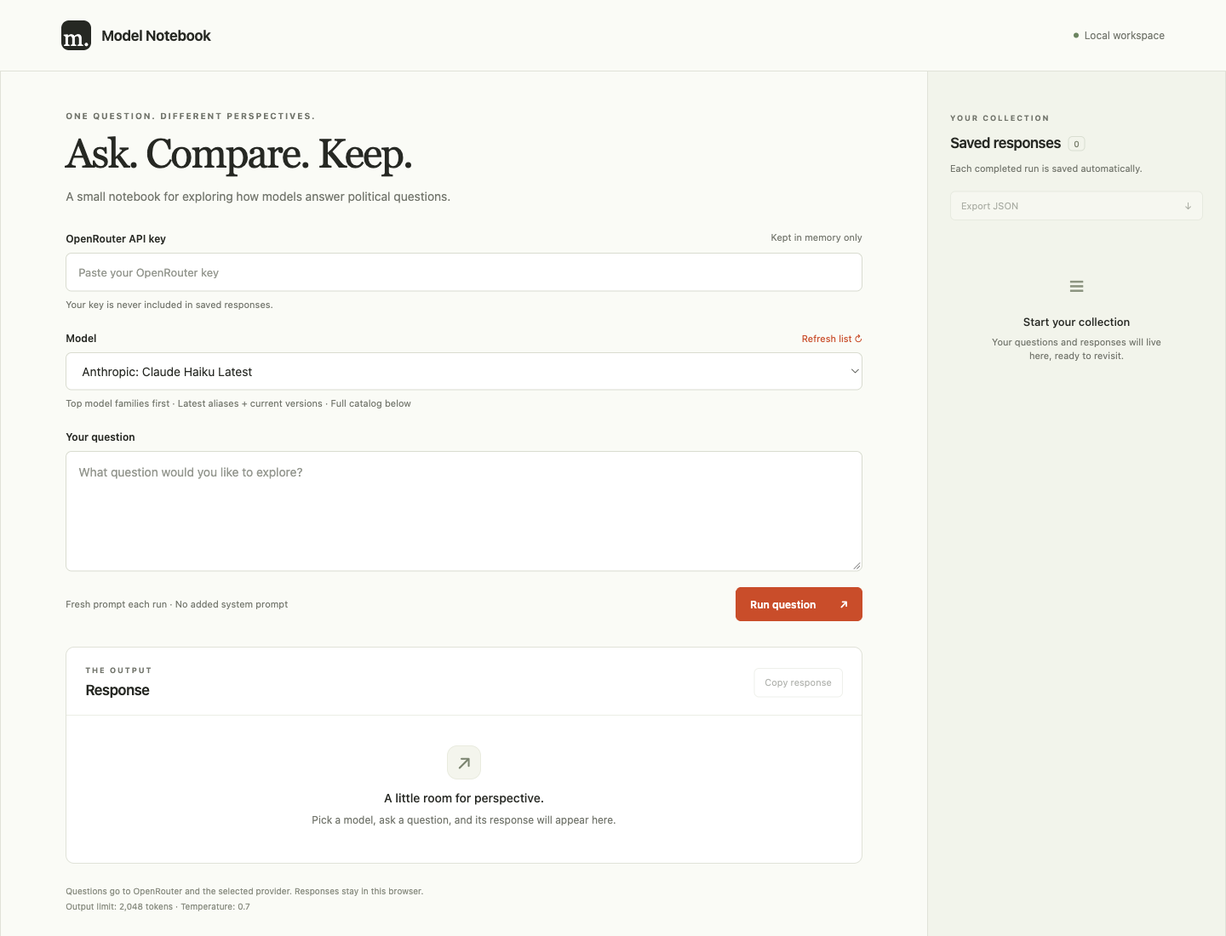
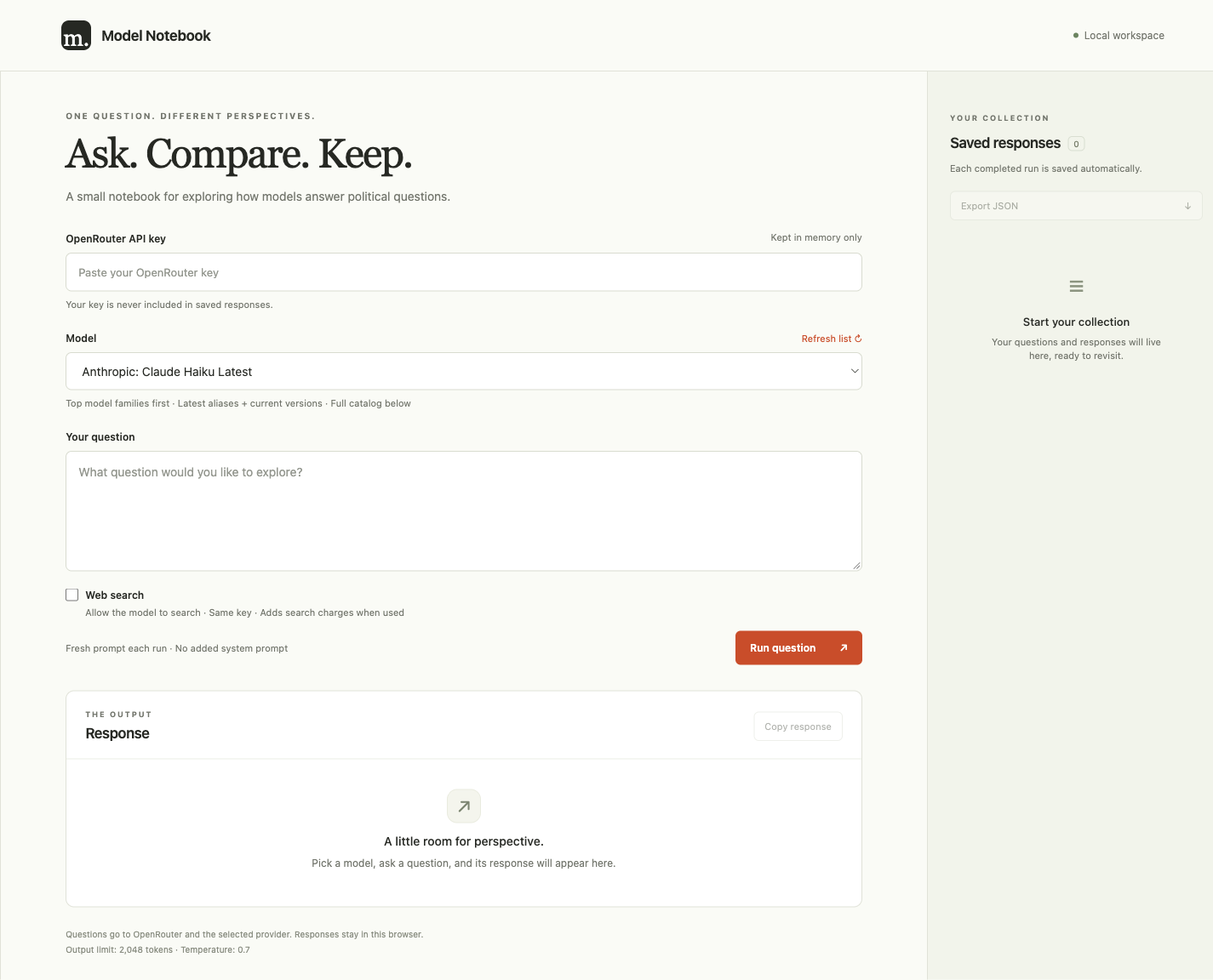
Add optional OpenRouter web search with saved source links

diff --git a/static/app.js b/static/app.js
@@ -45,6 +45,7 @@ function updateControls() {
   $("run").firstChild.textContent = busy ? "Running… " : "Run question ";
   $("question").disabled = busy;
   $("api-key").disabled = busy;
+  $("web-search").disabled = busy;
   $("model").disabled = busy || !$("model").value;
   $("refresh-models").disabled = busy;
 }
@@ -108,6 +109,25 @@ function persist() {
   }
 }
 
+function safeSources(sources) {
+  if (!Array.isArray(sources)) return [];
+  const seen = new Set();
+  return sources.slice(0, 100).flatMap((source) => {
+    if (!source || typeof source.url !== "string" || source.url.length > 4096 || /[\s\x00-\x1f\x7f]/.test(source.url)) return [];
+    try {
+      const url = new URL(source.url);
+      if (!["http:", "https:"].includes(url.protocol) || !url.hostname || url.username || url.password || seen.has(url.href)) return [];
+      seen.add(url.href);
+      return [{url: url.href, title: typeof source.title === "string" && source.title.trim() ? source.title.slice(0, 300) : url.hostname}];
+    } catch { return []; }
+  });
+}
+
+function searchInfo(value) {
+  return {enabled: value?.enabled === true, engine: value?.enabled === true ? "exa" : null,
+    requests: Number.isInteger(value?.requests) && value.requests >= 0 ? value.requests : null};
+}
+
 function restore() {
   try {
     const saved = JSON.parse(localStorage.getItem(storageKey) || "[]");
@@ -122,6 +142,7 @@ function restore() {
       provider: typeof item.provider === "string" ? item.provider : null,
       finish_reason: typeof item.finish_reason === "string" ? item.finish_reason : null,
       usage: item.usage && typeof item.usage === "object" ? item.usage : null,
+      web_search: searchInfo(item.web_search), sources: safeSources(item.sources),
       parameters: {temperature: 0.7, max_tokens: 2048},
     }));
   } catch {
@@ -142,6 +163,22 @@ function show(record) {
     $("result-meta").textContent = `${record.model_name} · ${dateLabel(record.created_at)} · Returned: ${record.model}${record.provider ? " · " + record.provider : ""}`;
     $("result-question").textContent = record.prompt;
     $("result-text").textContent = record.response;
+    const search = searchInfo(record.web_search);
+    $("result-search").textContent = !search.enabled ? "Web search off" : search.requests === 0 ? "Web search enabled · Model did not request a search" :
+      search.requests === null ? "Web search enabled · Search usage not reported" : `Web search used · ${search.requests} ${search.requests === 1 ? "search" : "searches"}`;
+    const sources = safeSources(record.sources);
+    $("sources").hidden = !search.enabled && !sources.length;
+    $("source-empty").hidden = sources.length > 0;
+    $("source-list").replaceChildren(...sources.map((source) => {
+      const item = document.createElement("li");
+      const link = document.createElement("a");
+      link.href = source.url;
+      link.textContent = source.title;
+      link.target = "_blank";
+      link.rel = "noopener noreferrer";
+      item.append(link);
+      return item;
+    }));
     $("result-warning").textContent = record.finish_reason === "length" ? "Output reached the 2,048-token limit and may be incomplete." :
       record.finish_reason === "content_filter" ? "The provider filtered part of this response." : "";
   }
@@ -160,7 +197,7 @@ function renderHistory() {
     open.setAttribute("aria-pressed", String(current?.id === record.id));
     const model = document.createElement("span");
     model.className = "saved-model";
-    model.textContent = record.model_name;
+    model.textContent = record.model_name + (record.web_search?.enabled ? " · Web search" : "");
     const question = document.createElement("span");
     question.className = "saved-question";
     question.textContent = record.prompt;
@@ -205,16 +242,18 @@ $("run-form").addEventListener("submit", async (event) => {
   }
   const model = $("model").value;
   const modelName = $("model").selectedOptions[0].textContent;
+  const webSearch = $("web-search").checked;
   busy = true;
   updateControls();
   status("run-status", "Waiting for the model… Your previous response remains available.");
   try {
-    const result = await api("/api/run", {api_key: key, prompt, model});
+    const result = await api("/api/run", {api_key: key, prompt, model, web_search: webSearch});
     const record = {
       id: crypto.randomUUID(), created_at: new Date().toISOString(),
       prompt, requested_model: model, model_name: modelName,
       model: result.model, response: result.response,
       provider: result.provider, finish_reason: result.finish_reason, usage: result.usage,
+      web_search: searchInfo(result.web_search), sources: safeSources(result.sources),
       parameters: {temperature: 0.7, max_tokens: 2048},
     };
     history.unshift(record);

diff --git a/static/index.html b/static/index.html
@@ -30,13 +30,14 @@
         <p id="model-status" class="hint" role="status">Fetching the OpenRouter model list.</p>
         <label class="question-label" for="question">Your question</label>
         <textarea id="question" rows="5" maxlength="20000" required placeholder="What question would you like to explore?"></textarea>
+        <div class="search-option"><label for="web-search"><input id="web-search" type="checkbox" aria-describedby="search-hint">Web search</label><p id="search-hint" class="hint">Allow the model to search · Same key · Adds search charges when used</p></div>
         <div class="run-row"><span class="hint">Fresh prompt each run · No added system prompt</span><button id="run" class="primary" disabled>Run question <span aria-hidden="true">↗</span></button></div>
       </form>
       <p id="run-status" class="status" role="status" aria-live="polite"></p>
       <section class="response-panel" aria-labelledby="response-heading">
         <div class="response-header"><div><p class="eyebrow">THE OUTPUT</p><h2 id="response-heading">Response</h2></div><button id="copy" class="secondary" disabled>Copy response</button></div>
         <div id="response-empty" class="empty-response"><span class="empty-mark" aria-hidden="true">↗</span><h3>A little room for perspective.</h3><p>Pick a model, ask a question, and its response will appear here.</p></div>
-        <article id="result" hidden><p id="result-meta" class="result-meta"></p><h3 id="result-question"></h3><p id="result-text" class="response-text"></p><p id="result-warning" class="warning"></p></article>
+        <article id="result" hidden><p id="result-meta" class="result-meta"></p><p id="result-search" class="result-meta"></p><h3 id="result-question"></h3><p id="result-text" class="response-text"></p><p id="result-warning" class="warning"></p><section id="sources" class="sources" aria-labelledby="sources-heading" hidden><h3 id="sources-heading">Sources</h3><ul id="source-list"></ul><p id="source-empty" class="hint" hidden>No source links were returned.</p></section></article>
       </section>
       <footer>Questions go to OpenRouter and the selected provider. Responses stay in this browser. <span>Output limit: 2,048 tokens · Temperature: 0.7</span></footer>
     </main>

diff --git a/static/style.css b/static/style.css
@@ -29,6 +29,10 @@ input::placeholder, textarea::placeholder { color: #94978f; }
 .model-row { display: flex; align-items: baseline; justify-content: space-between; }
 .text-button { border: 0; padding: 0; background: none; color: var(--accent); font-size: 11px; }
 .question-label { margin-top: 22px; }
+.search-option { margin-top: 13px; }
+.search-option label { display: flex; align-items: center; gap: 8px; margin: 0; }
+.search-option input { width: 15px; height: 15px; margin: 0; accent-color: var(--accent); }
+.search-option .hint { margin: 4px 0 0 23px; }
 .run-row { margin-top: 13px; display: flex; align-items: center; justify-content: space-between; gap: 12px; }
 .run-row .hint { margin: 0; }
 .primary { display: flex; align-items: center; gap: 28px; border: 0; border-radius: 6px; background: var(--accent); color: white; padding: 11px 17px; font-size: 12px; font-weight: 600; white-space: nowrap; }
@@ -50,6 +54,11 @@ h3 { font-size: 14px; font-weight: 500; margin: 0 0 6px; }
 .result-meta { font-size: 10px; color: var(--muted); margin: 0 0 14px; overflow-wrap: anywhere; }
 #result-question { font-weight: 600; font-size: 14px; border-bottom: 1px solid var(--line); padding-bottom: 18px; white-space: pre-wrap; overflow-wrap: anywhere; }
 .response-text { font-size: 14px; line-height: 1.8; white-space: pre-wrap; overflow-wrap: anywhere; margin: 18px 0 0; }
+.sources { margin-top: 22px; padding-top: 16px; border-top: 1px solid var(--line); }
+.sources h3 { font-size: 12px; font-weight: 600; }
+.sources ul { padding-left: 18px; margin: 8px 0 0; font-size: 12px; }
+.sources li { margin-top: 6px; overflow-wrap: anywhere; }
+.sources a { color: var(--accent); text-underline-offset: 3px; }
 .warning { font-size: 12px; margin: 12px 0 0; }
 .warning:empty { display: none; }
 footer { color: #898d81; font-size: 10px; line-height: 1.8; margin-top: 23px; }

diff --git a/server.py b/server.py
@@ -13,6 +13,7 @@ from collections import deque
 from http.server import BaseHTTPRequestHandler, ThreadingHTTPServer
 from pathlib import Path
 from urllib.error import HTTPError, URLError
+from urllib.parse import urlsplit
 from urllib.request import HTTPRedirectHandler, Request, build_opener
 
 STATIC = Path(__file__).parent / "static"
@@ -48,10 +49,10 @@ def openrouter(path, key=None, payload=None):
         return result
     except HTTPError as error:
         messages = {
-            400: "OpenRouter rejected the request. Try another model.",
+            400: "OpenRouter rejected the request. Try another model or turn off web search.",
             401: "OpenRouter rejected the API key. Check your key.",
             402: "Your OpenRouter account needs more credits.",
-            403: "OpenRouter denied access to this model or request.",
+            403: "OpenRouter denied access to this model, request, or search engine. Check your account settings.",
             404: "This model is unavailable. Refresh the model list.",
             408: "OpenRouter timed out. The request may still have been billed.",
             429: "OpenRouter is rate limiting requests. Wait before running again.",
@@ -71,6 +72,35 @@ def text_field(body, name, maximum):
     if not isinstance(value, str) or not value.strip() or len(value) > maximum:
         raise APIError(400, "Invalid " + name.replace("_", " ") + ".")
     return value.strip()
+
+
+def citation_sources(message):
+    """Only return safe, distinct links from OpenRouter's citation annotations."""
+    annotations = message.get("annotations")
+    if not isinstance(annotations, list):
+        return []
+    sources, seen = [], set()
+    for annotation in annotations[:100]:
+        if not isinstance(annotation, dict) or annotation.get("type") != "url_citation":
+            continue
+        citation = annotation.get("url_citation")
+        if not isinstance(citation, dict):
+            continue
+        url = citation.get("url")
+        if not isinstance(url, str) or len(url) > 4096 or re.search(r"[\s\x00-\x1f\x7f]", url):
+            continue
+        try:
+            parsed = urlsplit(url)
+            if parsed.scheme not in ("http", "https") or not parsed.hostname or parsed.username or parsed.password:
+                continue
+        except ValueError:
+            continue
+        if url in seen:
+            continue
+        seen.add(url)
+        title = citation.get("title")
+        sources.append({"url": url, "title": title[:300] if isinstance(title, str) and title.strip() else parsed.hostname})
+    return sources
 
 
 class Server(ThreadingHTTPServer):
@@ -197,6 +227,9 @@ class Handler(BaseHTTPRequestHandler):
             if not re.fullmatch(r"~?[A-Za-z0-9_./:+-]+", model):
                 raise APIError(400, "Invalid model ID.")
             prompt = text_field(body, "prompt", 20000)
+            web_search = body.get("web_search", False)
+            if not isinstance(web_search, bool):
+                raise APIError(400, "Web search must be true or false.")
             entered_key = body.get("api_key", "")
             if not isinstance(entered_key, str):
                 raise APIError(400, "Invalid API key.")
@@ -213,10 +246,17 @@ class Handler(BaseHTTPRequestHandler):
                 if len(self.server.calls) >= 10:
                     raise APIError(429, "Limit: 10 runs per minute. Wait before running again.")
                 self.server.calls.append(now)
-            result = openrouter("/chat/completions", key, {
+            payload = {
                 "model": model, "messages": [{"role": "user", "content": prompt}],
                 "temperature": 0.7, "max_tokens": 2048, "stream": False,
-            })
+            }
+            if web_search:
+                payload["tools"] = [{"type": "openrouter:web_search", "parameters": {
+                    "engine": "exa", "mode": "auto", "max_uses": 1,
+                    "max_results": 5, "max_total_results": 5,
+                }}]
+                payload["max_tool_calls"] = 2
+            result = openrouter("/chat/completions", key, payload)
             choices = result.get("choices")
             if not isinstance(choices, list) or not choices or not isinstance(choices[0], dict):
                 raise APIError(502, "OpenRouter returned no response.")
@@ -226,10 +266,17 @@ class Handler(BaseHTTPRequestHandler):
             if not isinstance(content, str) or not content.strip():
                 raise APIError(502, "The model returned no text. Try another model or a shorter question.")
             returned_model = result.get("model")
+            usage = result.get("usage")
+            tool_usage = usage.get("server_tool_use") if isinstance(usage, dict) else None
+            searches = tool_usage.get("web_search_requests") if isinstance(tool_usage, dict) else None
+            if type(searches) is not int or searches < 0:
+                searches = None
             self.send(200, {"response": content,
                             "model": returned_model if isinstance(returned_model, str) else model,
                             "finish_reason": choice.get("finish_reason"),
-                            "usage": result.get("usage"), "provider": result.get("provider")})
+                            "usage": usage, "provider": result.get("provider"),
+                            "web_search": {"enabled": web_search, "engine": "exa" if web_search else None,
+                                           "requests": searches}, "sources": citation_sources(message)})
         except APIError as error:
             self.send(error.status, {"error": error.message})
         except (BrokenPipeError, ConnectionResetError, socket.timeout):

diff --git a/tests/test_server.py b/tests/test_server.py
@@ -56,12 +56,16 @@ class LocalAPITests(unittest.TestCase):
         args = upstream.call_args.args
         self.assertEqual(args[0:2], ("/chat/completions", "fake-key"))
         self.assertEqual(args[2]["messages"], [{"role": "user", "content": "How should voting work?"}])
+        self.assertNotIn("tools", args[2])
+        self.assertNotIn("max_tool_calls", args[2])
+        self.assertFalse(result["web_search"]["enabled"])
         self.assertNotIn("fake-key", json.dumps(result))
 
     def test_validation_precedes_upstream_calls(self):
         invalid = [self.payload(prompt=" "), self.payload(model="bad\nmodel"),
                    self.payload(prompt="x" * 20001), self.payload(api_key=[]),
-                   self.payload(api_key="fake\nkey"), []]
+                   self.payload(api_key="fake\nkey"), self.payload(web_search="false"),
+                   self.payload(web_search=1), []]
         with patch.object(server, "openrouter") as upstream:
             for body in invalid:
                 self.assertEqual(self.request("POST", "/api/run", body)[0], 400)
@@ -105,6 +109,44 @@ class LocalAPITests(unittest.TestCase):
             self.assertEqual(self.request("POST", "/api/run", self.payload())[0], 502)
         with patch.object(server, "openrouter", return_value={"choices": [{"message": {"refusal": "I cannot answer."}}]}):
             self.assertEqual(self.request("POST", "/api/run", self.payload())[1]["response"], "I cannot answer.")
+        self.assertFalse(self.app.running.locked())
+
+    def test_search_tool_bounds_usage_and_safe_citations(self):
+        def annotation(url, title="Source"):
+            return {"type": "url_citation", "url_citation": {"url": url, "title": title}}
+        response = {"choices": [{"message": {"content": "A sourced answer.", "annotations": [
+            annotation("https://example.com/report", "<b>A report</b>"),
+            annotation("https://example.com/report", "Duplicate"),
+            annotation("javascript:alert(1)"), annotation("https://user:password@example.com"),
+            annotation("https://example.com/\nunsafe"), annotation("https://[invalid"),
+            annotation("https://example.org/data", None), {"type": "url_citation", "url_citation": []}, None,
+        ]}}], "usage": {"server_tool_use": {"web_search_requests": 1}}}
+        with patch.object(server, "openrouter", return_value=response) as upstream:
+            status, result = self.request("POST", "/api/run", self.payload(web_search=True))
+        self.assertEqual(status, 200)
+        payload = upstream.call_args.args[2]
+        self.assertEqual(payload["tools"], [{"type": "openrouter:web_search", "parameters": {
+            "engine": "exa", "mode": "auto", "max_uses": 1, "max_results": 5, "max_total_results": 5}}])
+        self.assertEqual(payload["max_tool_calls"], 2)
+        self.assertEqual(payload["messages"], [{"role": "user", "content": "How should voting work?"}])
+        self.assertEqual(result["web_search"], {"enabled": True, "engine": "exa", "requests": 1})
+        self.assertEqual(result["sources"], [
+            {"url": "https://example.com/report", "title": "<b>A report</b>"},
+            {"url": "https://example.org/data", "title": "example.org"}])
+
+    def test_search_zero_usage_unknown_usage_and_failure_are_distinct(self):
+        for count, expected in [(0, 0), (None, None), (True, None)]:
+            response = {"choices": [{"message": {"content": "Answer without citations."}}],
+                        "usage": {"server_tool_use": {"web_search_requests": count}}}
+            with patch.object(server, "openrouter", return_value=response):
+                status, result = self.request("POST", "/api/run", self.payload(web_search=True))
+            self.assertEqual(status, 200)
+            self.assertEqual(result["web_search"]["requests"], expected)
+            self.assertEqual(result["sources"], [])
+        with patch.object(server, "openrouter", side_effect=server.APIError(502, "Search unavailable.")) as upstream:
+            self.assertEqual(self.request("POST", "/api/run", self.payload(web_search=True)),
+                             (502, {"error": "Search unavailable."}))
+            upstream.assert_called_once()
         self.assertFalse(self.app.running.locked())
 
 

diff --git a/README.md b/README.md
@@ -28,18 +28,23 @@ You can also provide `OPENROUTER_API_KEY` through your environment or secret man
 
 - Loads OpenRouter's current text model catalog (cached for five minutes). The selector puts Claude Haiku/Sonnet/Opus/Fable, OpenAI Luna/Terra/Sol/Astra, DeepSeek, Gemini, Grok, and Meta Muse first, with the other text models below. Batch models are excluded because this app makes synchronous requests.
 - Shows available latest aliases alongside the newest pinned releases in each family. Muse includes the newest Spark versions (currently 1.3 and 1.3 Contributor). Only models actually present in the live catalog are offered; future releases appear automatically. Latest aliases can change their target over time, so saved records include both the requested ID and the returned model ID.
-- Sends one independent user message each run, without a system message or previous conversation.
+- Sends one independent user message each run. The app does not add a system message or previous conversation.
+- Offers an optional **Web search** checkbox using the same OpenRouter key. It is off by default. When enabled, the model can request OpenRouter's Exa-backed search; it may also answer without searching. Each run requests a cap of one search and five results, with a small server-tool call budget. The response shows reported search usage and clickable source links when returned.
 - Uses temperature `0.7` and a maximum output of `2048` tokens. Some models may interpret these settings differently or reject unsupported parameters.
 - Automatically saves completed responses in this browser's local storage. Click a saved question to revisit it; remove a response and undo the last removal.
-- Copies the current response or exports all saved responses to JSON, including question, requested/returned model, provider when supplied, timestamp, parameters, finish reason, and usage when supplied. Keys are excluded.
+- Copies the current response or exports all saved responses to JSON, including question, requested/returned model, provider when supplied, timestamp, parameters, finish reason, usage when supplied, search settings, and source links. Keys are excluded. Existing saved records remain readable and are treated as having this app's web search off.
 
 Responses are displayed as plain text. Refusals are preserved when returned as text. Failed requests are shown as errors and are not added to the collection. This is an exploratory notebook, not a statistical benchmark: repeated runs can differ, and model/provider versions can change.
+
+### Search costs
+
+No additional search account or key is needed. OpenRouter's Exa Auto search currently costs **$0.007 per search request**, plus model token costs (including search context). It uses your OpenRouter credits, even on free models. See [current search pricing](https://openrouter.ai/tool/web-search/) before running experiments. The model decides whether to search; missing usage or citation data is shown as unreported, not assumed to be zero. Server tools are in beta and may be unavailable for a model, provider, or workspace configuration. Turn off search to run without this tool. The app never silently retries or changes search engines after a failure.
 
 ## Privacy and limits
 
 The server binds only to `127.0.0.1`. A temporary session token, strict Host/Origin checks, no cross-origin access, and a content security policy protect the local API. Requests go only to the fixed OpenRouter HTTPS endpoint; redirects are rejected. Keep it local rather than exposing it through a tunnel or deploying it publicly.
 
-UI keys stay in page memory and are cleared on reload; environment keys stay in server memory. Keys, prompts, and responses are not logged or written to server files. Your prompt and key are sent to OpenRouter; prompts are also processed by the selected provider according to their policies. API calls can cost credits. No automatic retries are made, because a timed-out request may still be billed.
+UI keys stay in page memory and are cleared on reload; environment keys stay in server memory. Keys, prompts, and responses are not logged or written to server files. Your prompt and key are sent to OpenRouter; prompts are also processed by the selected provider according to their policies. When search is enabled, generated queries are processed by OpenRouter's search engine as well. API calls can cost credits. No automatic retries are made, because a timed-out request may still be billed.
 
 Saved questions and responses are unencrypted browser data for this exact origin (host + port). Clearing site data deletes them; using a different port or browser opens a separate collection. If storage is blocked or full, the UI warns you and keeps new responses in memory so you can export them before closing. Exported files may contain sensitive questions or answers.
 
@@ -57,4 +62,4 @@ Tests use fake OpenRouter responses and do not need an API key or spend credits.
 
 The app intentionally stays small. Follow [AGENTS.md](AGENTS.md) for setup, verification, and privacy rules. `.gitignore` excludes secret files, exports, caches, and browser artifacts. The project uses the MIT license.
 
-API references: [chat completions](https://openrouter.ai/docs/api/api-reference/chat/create-a-chat-completion) and [model catalog](https://openrouter.ai/docs/api/api-reference/models/list-all-models-and-their-properties).
+API references: [chat completions](https://openrouter.ai/docs/api/api-reference/chat/create-a-chat-completion), [model catalog](https://openrouter.ai/docs/api/api-reference/models/list-all-models-and-their-properties), and [web search server tool](https://openrouter.ai/docs/guides/features/server-tools/web-search). The search integration uses `openrouter:web_search`, not the deprecated web plugin or `:online` suffix.

diff --git a/docs/SETUP.md b/docs/SETUP.md
@@ -52,9 +52,10 @@ No `pip install`, Node.js, or extra packages are needed.
 
 1. Paste your key into **OpenRouter API key**.
 2. Choose a model. The requested model families are grouped first. A **Latest** option follows newer releases automatically; a numbered option is better for repeating an experiment against a specific release.
-3. Type a question and click **Run question**. Wait for the answer. Each run makes a new, independent request.
-4. The answer appears in the main panel and is saved in the sidebar. Click any saved question to read it again. Keep the same question and change models to compare their answers.
-5. Use **Export JSON** to download your collection. This file contains your questions and answers, but no API key. **Remove** deletes a response; **Undo** restores the last removal.
+3. Type a question. Leave **Web search** off to get the model's unaided answer, or check it to allow a web search using your same OpenRouter key. Search adds charges when used: the current Exa search rate is $0.007 per search plus model tokens. The app requests at most one search with up to five results per run. Review [current pricing](https://openrouter.ai/tool/web-search/) if cost matters to your experiment.
+4. Click **Run question** and wait for the answer. Each run makes a new, independent request. With search enabled, the model decides whether it needs to search. The output says whether a search was reported and displays clickable source links when supplied. If usage is missing, the app says so instead of guessing.
+5. The answer appears in the main panel and is saved in the sidebar, including its search setting and source links. Click any saved question to read it again. Keep the same question and search setting while changing models to compare their answers; results from separate searches can differ.
+6. Use **Export JSON** to download your collection, including search details and source links. This file contains your questions and answers, but no API key. **Remove** deletes a response; **Undo** restores the last removal.
 
 Your saved responses remain in this browser after restarting the app. Clearing browser site data deletes them. The key is cleared on refresh, so paste it again when needed. Export any important results before clearing browser data.
 
@@ -74,5 +75,6 @@ In the terminal running the app, press **Ctrl+C** to stop it. Run the same start
 | API key rejected | Copy the key again without extra spaces, or create a replacement on OpenRouter. Use an OpenRouter key, not a direct provider key. |
 | Credits error | Check your OpenRouter balance and the key's limit. Add credits only if you want to pay for requests. |
 | Model unavailable or request rejected | Refresh the model list or choose another model. Catalog entries can be unavailable for your account or provider. |
+| Search unavailable or access denied | Turn off Web search or try another model. Your OpenRouter workspace may restrict search engines; check its Server Tools settings. No second key is needed. |
 | Request timed out | Wait before trying again. A timed-out request may still cost credits; the app does not retry automatically. |
 | Browser storage is unavailable or full | Export JSON before closing the page. New responses are being kept only in memory. |

diff --git a/AGENTS.md b/AGENTS.md
@@ -14,6 +14,7 @@ Help a non-technical user run this project locally. Preserve its small, dependen
 ## Help the user get a key
 
 - Explain that an OpenRouter key is a private credential, and featured models generally cost credits per request.
+- Web search uses that same key and adds search charges when used. It is off by default. Explain the cost before a live test, show returned source links, and distinguish enabled search from reported search usage. Do not enable it or make a billable test without the user's authorization.
 - Guide the user to https://openrouter.ai/settings/keys after they sign in. Have them create a key named Model Notebook, choose a small spending limit, and copy it into the local app themselves. Use `docs/SETUP.md` for the walkthrough.
 - Never ask them to paste their key, password, or payment details into chat. Never read or print their key, commit it, put it in a URL, or save it to a file. Prefer the UI key field; an environment/secret-manager key is also supported when the user prefers it.
 - Creating an account, handling payment details, buying credits, or enabling top-ups is for the user. Do not do those actions as part of setup.
